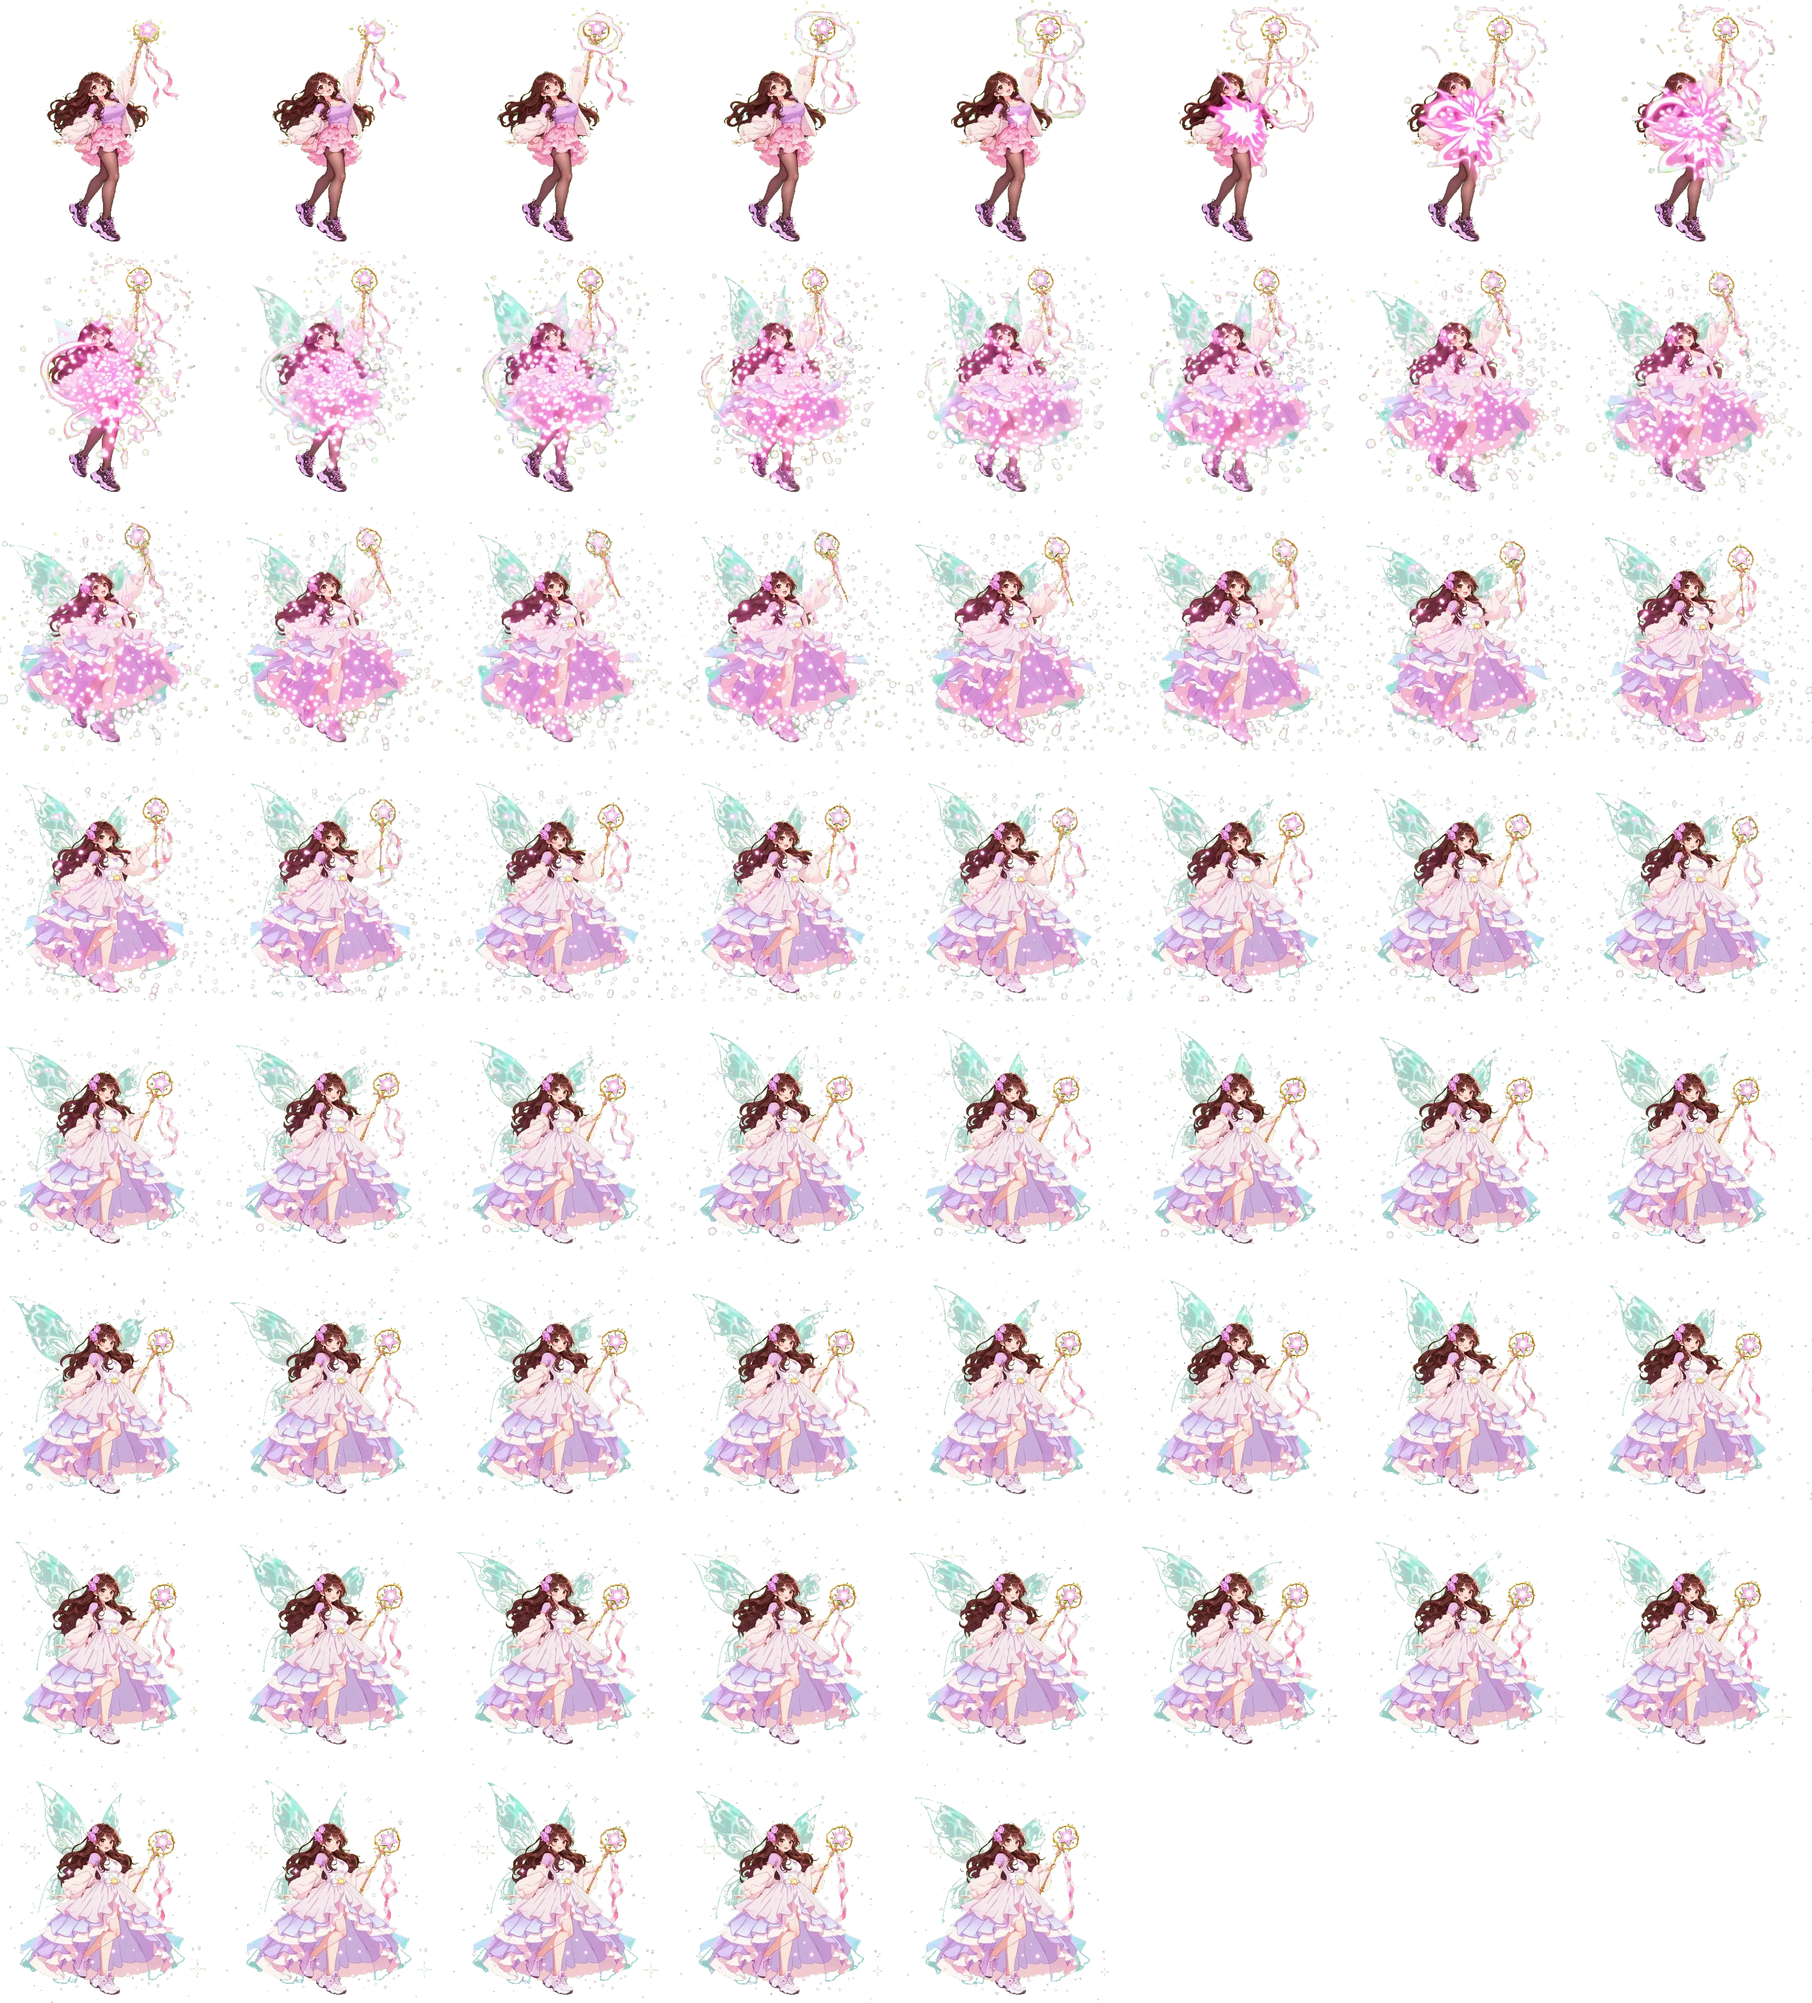
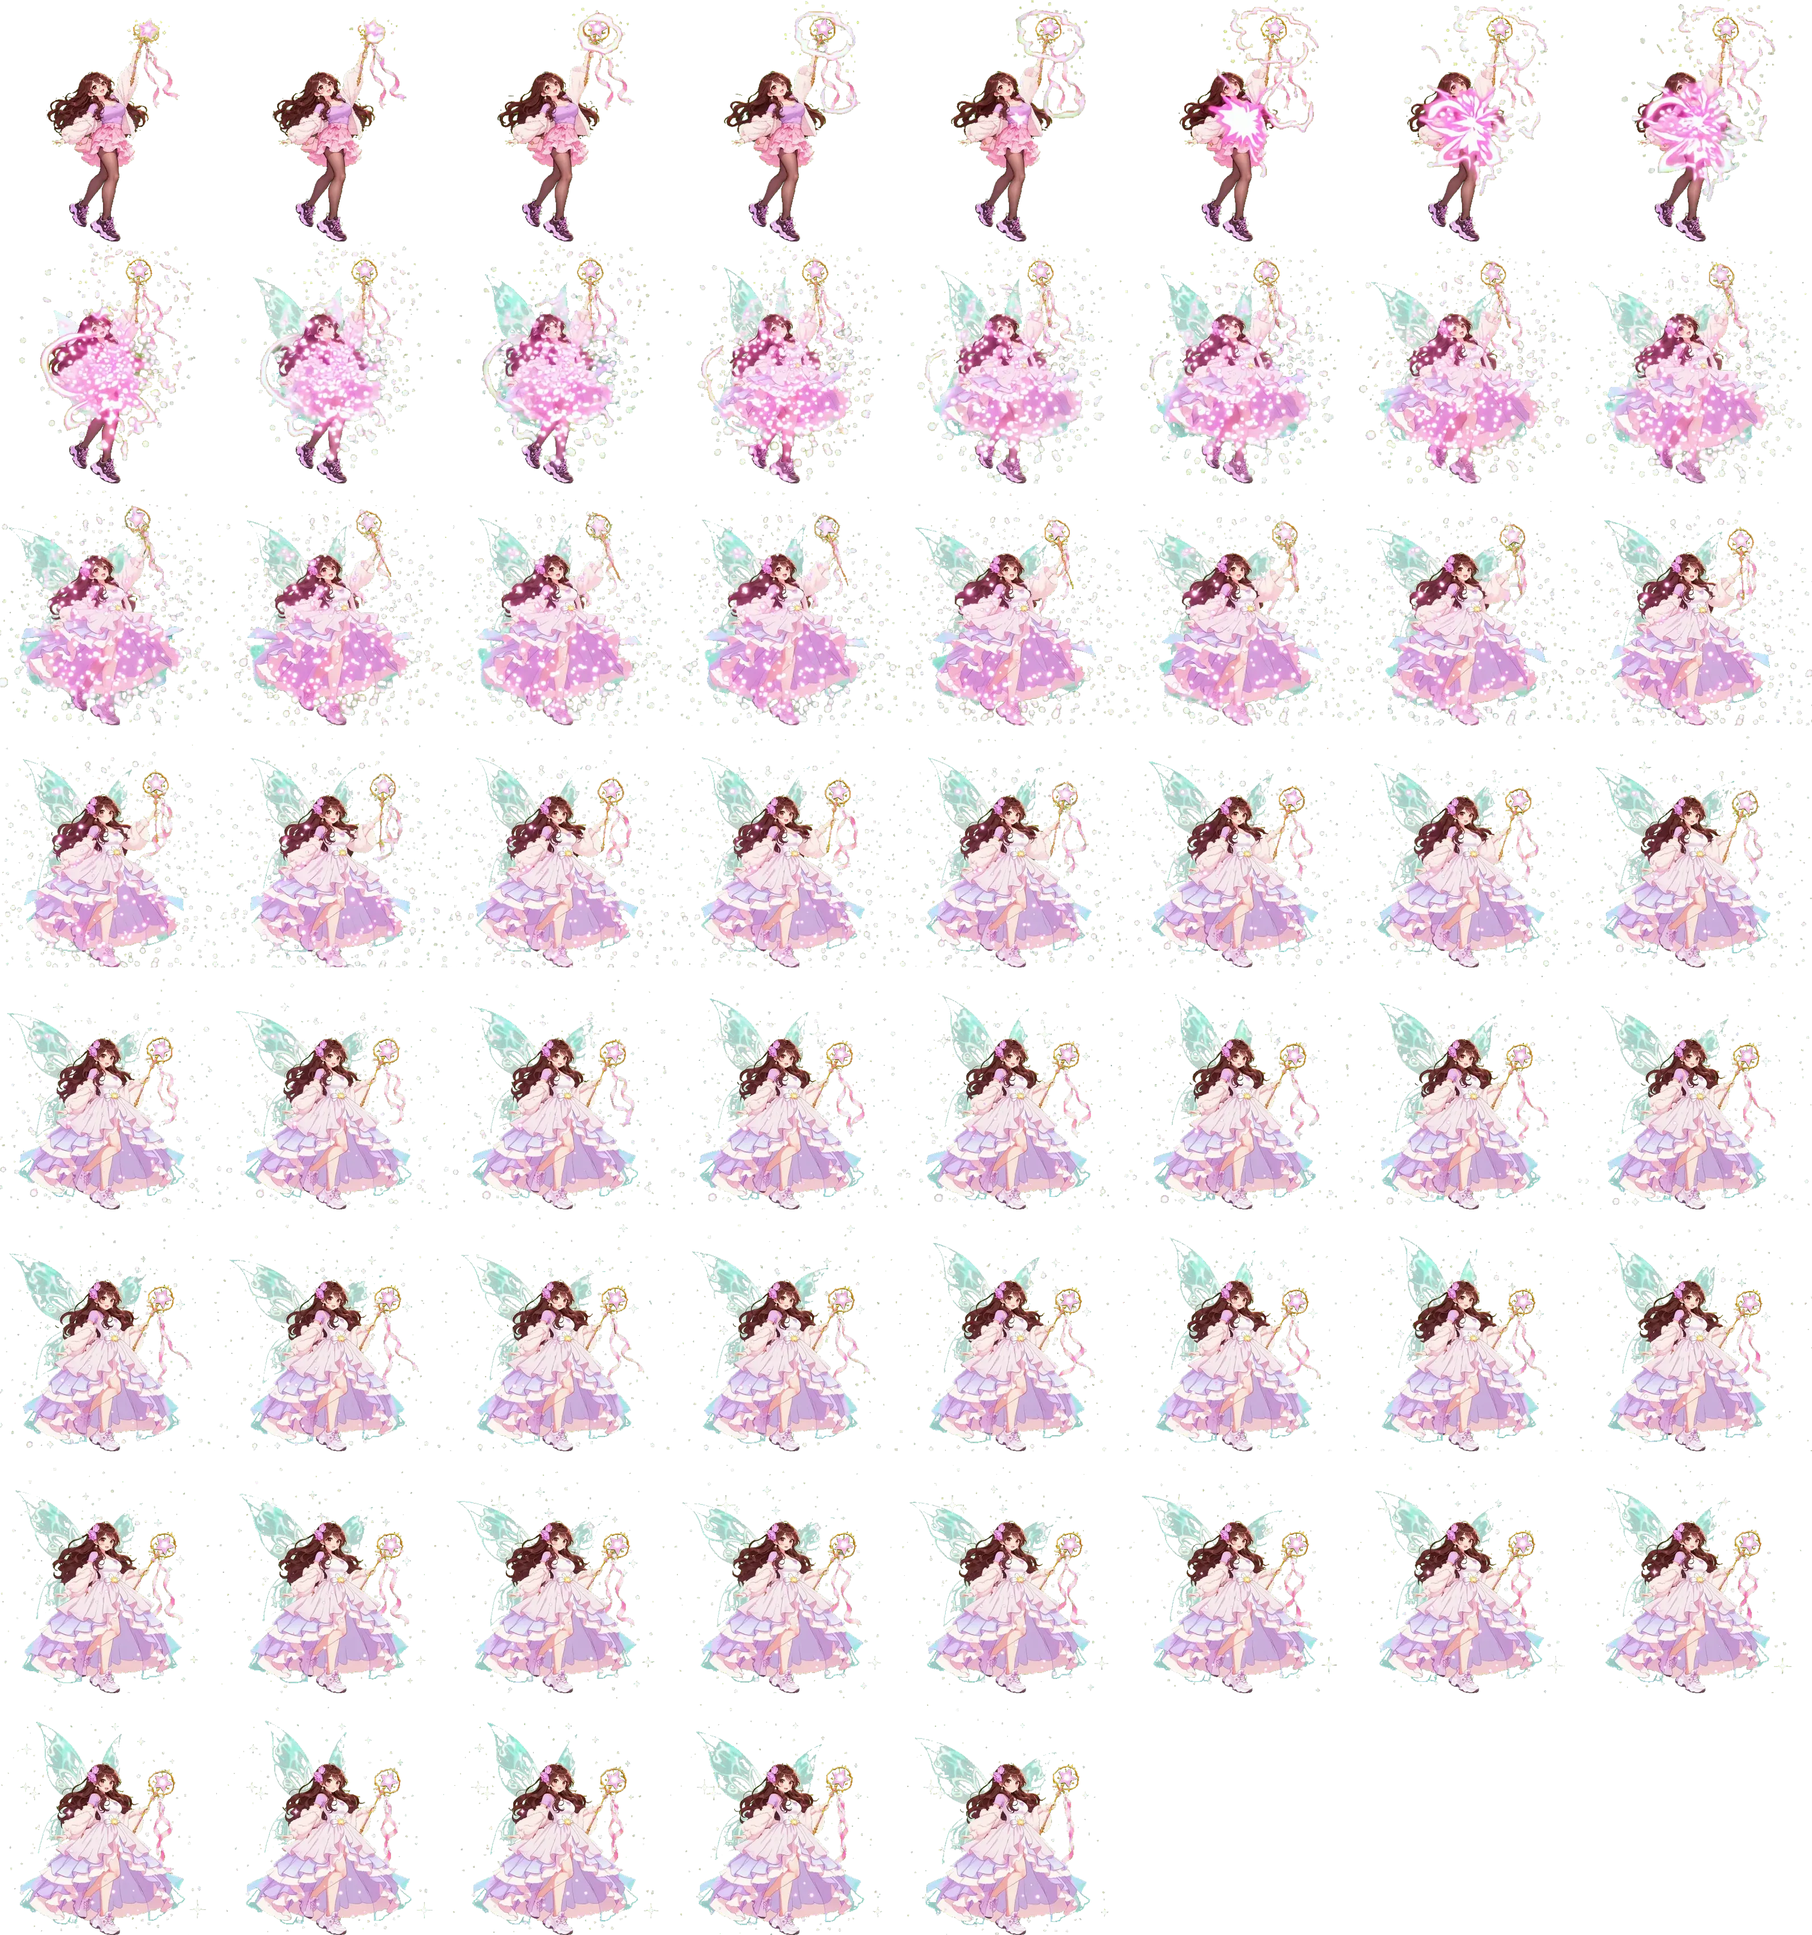
Final: Ari conserva su tamaño y posición durante la transformación

diff --git a/cuento.js b/cuento.js
@@ -540,7 +540,7 @@
         { nombre: 'ari', actor: 'baculo-anim', x: 50, alto: 17, efecto: 'brilla', ms: 2600, bucle: [0, 1], cicloMs: 3000,
           texto: { titulo: 'A pesar de los obstáculos…', texto: 'siempre debes alcanzar tu sueño.' } },
         // Ari se transforma como una chica mágica: cintas de luz la envuelven y queda con el traje y las alas del hada
-        { nombre: 'ari-t', actor: 'transforma-anim', x: 50, alto: 19, pj: false, clase: 'hada-final', reemplaza: 'ari', sigue: true, de: 0, a: 2, ms: 5200, pausa: 300,
+        { nombre: 'ari-t', actor: 'transforma-anim', x: 49.6, alto: 17.1, pj: true, clase: 'hada-final', reemplaza: 'ari', sigue: true, de: 0, a: 2, ms: 5200, pausa: 300,
           fx: [{ tipo: 'destello', x: 50, ancho: 26, y: 6, ms: 1400 }, { tipo: 'destello', x: 50, ancho: 30, y: 10, ms: 1300, tras: 3800 }] },
         // …y con su varita lanza el hechizo: la luz cubre todo
         { evento: 'cuento-dibuja-mundo', ms: 400 }

diff --git a/index.html b/index.html
@@ -43,7 +43,7 @@
   <script src="fondo-acuarela.js?v=20261104a" defer></script>
   <script src="secciones.js?v=20261017a" defer></script>
   <script src="libro.js?v=20261013a" defer></script>
-  <script src="cuento.js?v=20261013c" defer></script>
+  <script src="cuento.js?v=20261013d" defer></script>
   <script src="vendor/gsap.min.js" defer></script>
   <script src="vendor/MotionPathPlugin.min.js" defer></script>
   <script src="escenas.js?v=20261108i" defer></script>
